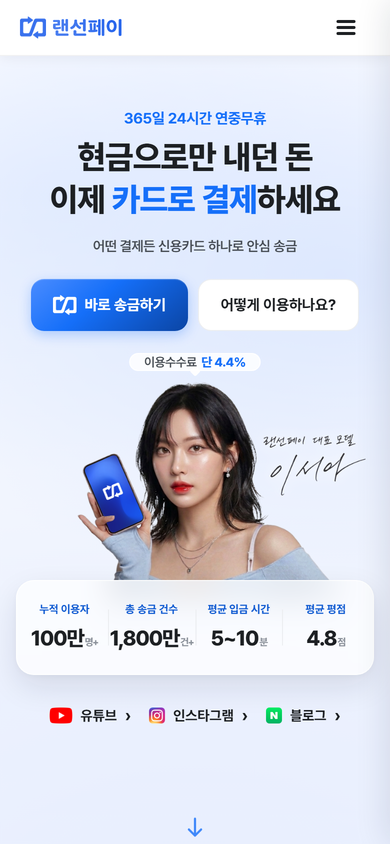
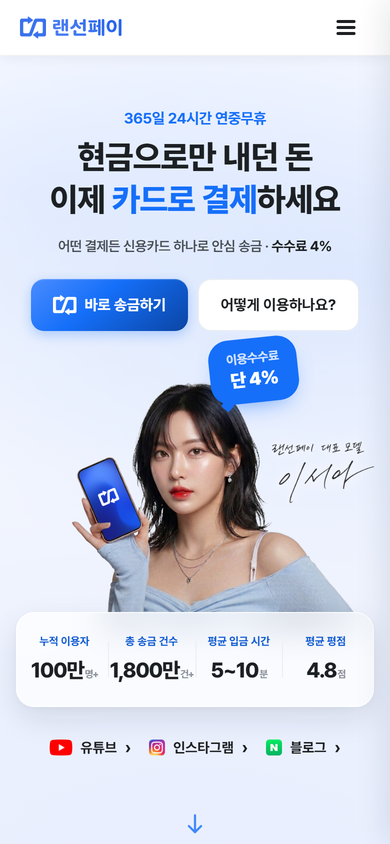
클라이언트 · 리뷰어 피드백 반영
- 수수료 표기 「단 4%」로 통일 (말풍선 두 줄 · 파란 채움 · 머리 옆 대각선), 부제목에 「수수료 4%」 추가
- FAQ 「서류는 무엇이 필요한가요?」 유형별 목록으로 (홈페이지 · 앱)
- 항목 패널: 카드 이미지 → 선택한 항목 아이콘
- 핵심 포인트: 최대 24개월 · 최대 17% · 임대인 동의 없이 강조
- 「쉽고 빠른」 단계 글씨 키움, 사진 띠 문구 「현금이 없어도 랜선페이에서 해결하세요」
- 앱 결제 등록 (필수) 빨간 * 강조, 이용가이드 목업 최신화

Changed region(s): [[0.0308, 0.4005, 0.9538, 0.8934], [0.1538, 0.2773, 0.8615, 0.3081], [0.4923, 0.955, 0.5231, 1.0]]

diff --git a/index.html b/index.html
@@ -921,28 +921,27 @@
     .hmodel{aspect-ratio:1420/1147; max-height:calc(var(--mw) / 1.238 * 1.15);}
     .hmodel img{left:11.34%; width:100%;}
   }
-  /* 말풍선 — 사람 머리 위 한가운데 · 꼬리는 아래 가운데. 사진 칸 위로 삐져나오므로
-     칸의 overflow 대신 clip-path 로 아래 · 좌우만 자르고 위쪽은 열어 둔다 */
+  /* 말풍선 — 머리 오른쪽 위에 대각선으로 · 꼬리는 왼쪽 아래(머리 쪽) · 파란 채움으로 눈에 띄게.
+     사진 칸 위로 삐져나오므로 칸의 overflow 대신 clip-path 로 아래만 자르고 위쪽은 열어 둔다 */
   .hmodel{overflow:visible; clip-path:inset(-90px 0 0 0);}
-  /* PC — 사진이 칸 오른쪽으로 11% 넘치므로 좌우는 자르지 않는다 */
-  @media(min-width:768px){ .hmodel{clip-path:inset(-90px -90px 0 -90px);} }
-  .hbub{position:absolute; z-index:3; left:50%; bottom:calc(100% + 10px); transform:translateX(-50%);
-    padding:8px 14px; border-radius:999px;
-    background:rgba(255,255,255,.82); -webkit-backdrop-filter:blur(10px); backdrop-filter:blur(10px);
-    border:1px solid rgba(255,255,255,.95);
-    color:var(--sub); font-size:12.5px; font-weight:600; letter-spacing:-.3px; white-space:nowrap;
-    box-shadow:0 8px 22px -14px rgba(15,23,42,.35);}
-  .hbub b{color:var(--primary); font-weight:800; margin-left:2px;}
-  /* 꼬리 — 글씨 뒤로 보내고(z-index:-1) 위로 덜 파고들게 작게 · 낮게 */
-  .hbub:after{content:''; position:absolute; z-index:-1; left:50%; bottom:-5px; width:8px; height:8px; margin-left:-4px;
-    border-radius:2px; background:rgba(255,255,255,.95); transform:rotate(45deg);}
+  .hbub{position:absolute; z-index:3; left:55%; bottom:calc(100% - 26px); transform:rotate(-6deg);
+    transform-origin:left bottom;
+    padding:12px 18px 13px; border-radius:20px; text-align:center; line-height:1.2;
+    background:var(--primary); color:rgba(255,255,255,.9);
+    font-size:12.5px; font-weight:700; letter-spacing:-.3px; white-space:nowrap;
+    box-shadow:0 10px 24px -12px rgba(21,111,249,.7);}
+  .hbub small{display:block; font-size:inherit; opacity:.9;}
+  .hbub b{display:block; margin-top:3px; color:#fff; font-weight:900; font-size:18px; letter-spacing:-.5px;}
+  .hbub:after{content:''; position:absolute; z-index:-1; left:10px; bottom:-5px; width:10px; height:10px;
+    border-radius:2px; background:var(--primary); transform:rotate(45deg);}
   /* 머리카락과 안 겹치게 — 말풍선 바로 아래, 얼굴 옆 빈 자리 */
   .hname{position:absolute; z-index:3; right:3%; top:24%; width:108px;
     filter:drop-shadow(0 0 5px rgba(255,255,255,.95)) drop-shadow(0 0 10px rgba(255,255,255,.7));}
   .hname img{display:block; width:100%; height:auto;}
   @media(min-width:768px){
-    .hbub{bottom:calc(100% + 12px); padding:11px 20px; font-size:15.5px;}
-    .hbub:after{bottom:-6px; width:11px; height:11px; margin-left:-5.5px;}
+    .hbub{left:56%; bottom:calc(100% - 22px); padding:14px 24px 16px; font-size:15px; border-radius:24px;}
+    .hbub b{font-size:24px; margin-top:4px;}
+    .hbub:after{left:14px; bottom:-6px; width:12px; height:12px;}
     .hname{right:3%; top:25%; width:160px;}
   }
   /* 글 묶음과 사진 사이 최소 숨통 */
@@ -990,6 +989,8 @@
     .hstats b{font-size:clamp(19px, calc(1.24svh + 11px), 21px);}
   }
 
+  /* 핵심 포인트 — 할부 개월 · 환급률만 크게 */
+  .whygrid .uc h3 em{font-style:normal; color:var(--primary); font-weight:900;}
   /* ===== 이유 카드 — 칸 안에 또 칸 (토스식) =====
      바깥은 흰 카드 · 위쪽 속칸에 파스텔 그라데이션 + 번호 · 화살표 · 제목
      설명은 속칸 아래 흰 자리에. 04(파란 카드)는 그대로 둔다 */
@@ -1111,6 +1112,14 @@
   /* 신용카드가 속칸 자리를 그대로 차지 */
   #itemsec .itin .itr-card{width:100%; max-width:none; min-width:0; margin:0;
     aspect-ratio:1/1.492; align-self:stretch;}
+  /* 선택한 항목의 아이콘을 크게 — 우리 그라데이션 타일 */
+  #itemsec .itr-ic{width:100%; height:100%; border-radius:22px; display:flex; align-items:center; justify-content:center;
+    background:
+      radial-gradient(115% 95% at 10% 6%, color-mix(in srgb, var(--primary) 16%, transparent), transparent 64%),
+      radial-gradient(95% 80% at 95% 92%, color-mix(in srgb, var(--primary) 9%, transparent), transparent 66%), #FAFCFF;
+    border:1px solid color-mix(in srgb, var(--primary) 10%, transparent);}
+  #itemsec .itr-ic iconify-icon{font-size:64px; color:var(--primary); filter:drop-shadow(0 8px 14px rgba(21,111,249,.25));}
+  @media(min-width:1000px){ #itemsec .itr-ic iconify-icon{font-size:76px;} }
   #itemsec .itl h3{margin:0 0 10px; font-size:16px; font-weight:800; letter-spacing:-.3px;
     line-height:1.35; color:var(--ink);}
   @media(min-width:1000px){ #itemsec .itl h3{font-size:20px; margin-bottom:14px;} }
@@ -1235,22 +1244,22 @@
   /* 세로 타임라인 */
   .tline{list-style:none; margin:0; padding:0; width:100%; max-width:560px;}
   @media(min-width:900px){ .tline{max-width:none;} }
-  .tstep{position:relative; display:grid; grid-template-columns:34px 1fr; gap:16px; padding-bottom:30px;}
+  .tstep{position:relative; display:grid; grid-template-columns:38px 1fr; gap:16px; padding-bottom:30px;}
   @media(min-width:900px){ .tstep{padding-bottom:44px;} }
   .tstep:last-child{padding-bottom:0;}
-  .tstep:not(:last-child):before{content:''; position:absolute; left:16px; top:38px; bottom:2px;
+  .tstep:not(:last-child):before{content:''; position:absolute; left:18px; top:42px; bottom:2px;
     width:2px; background:var(--primary-100);}
-  .tno{width:34px; height:34px; border-radius:999px; z-index:1;
+  .tno{width:38px; height:38px; border-radius:999px; z-index:1;
     display:flex; align-items:center; justify-content:center;
     background:#fff; border:1.5px solid var(--primary-100); color:var(--primary-600);
     font-size:14px; font-weight:800; letter-spacing:0;
     box-shadow:0 1px 4px rgba(15,23,42,.06);}
   .tstep.on .tno{background:var(--primary); border-color:var(--primary); color:#fff;
     box-shadow:0 4px 12px rgba(21,111,249,.32);}
-  #howto .tbd h3{margin:5px 0 0; font-size:18px; font-weight:800; letter-spacing:-.3px; line-height:1.4;}
-  @media(min-width:900px){ #howto .tbd h3{font-size:20px;} }
-  .tbd p{margin-top:7px; font-size:15px; line-height:1.75; color:var(--sub); word-break:keep-all;}
-  @media(min-width:900px){ .tbd p{font-size:15.5px;} }
+  #howto .tbd h3{margin:5px 0 0; font-size:19px; font-weight:800; letter-spacing:-.3px; line-height:1.4;}
+  @media(min-width:900px){ #howto .tbd h3{font-size:22px;} }
+  .tbd p{margin-top:8px; font-size:15.5px; line-height:1.75; color:var(--sub); word-break:keep-all;}
+  @media(min-width:900px){ .tbd p{font-size:17px;} }
 
   /* 제목과 단계 사이 — 사람 · 휴대폰 사진 한 줄 */
   .hpic{display:block; width:100%; height:180px; object-fit:cover;
@@ -1511,7 +1520,7 @@
     <div class="wrap hero2">
       <span class="hbadge">365일 24시간 연중무휴</span>
       <h1 class="h-hero">현금으로만 내던 돈<br>이제 <span class="hl">카드로 결제</span>하세요</h1>
-      <p class="hlead">어떤 결제든 신용카드 하나로 안심 송금</p>
+      <p class="hlead">어떤 결제든 신용카드 하나로 안심 송금 · <b>수수료 4%</b></p>
       <div class="hbtns">
         <a class="btn btn-primary" href="app.html" target="_blank" rel="noopener"><img class="btn-logo" src="img/logo3-white.png" alt="">바로 송금하기</a>
         <a class="btn btn-line" href="guide.html">어떻게 이용하나요?</a>
@@ -1520,7 +1529,7 @@
 
     <div class="hmodel">
       <img src="img/people3.png?v=1" alt="랜선페이를 쓰는 모델">
-      <span class="hbub">이용수수료 <b>단 4.4%</b></span>
+      <span class="hbub"><small>이용수수료</small><b>단 4%</b></span>
       <span class="hname"><img src="img/싸인.png?v=1" alt="랜선페이 대표 모델 이서아"></span>
     </div>
 
@@ -1570,7 +1579,7 @@
 
       <div class="itpanel">
         <div class="itin">
-          <div class="itr-card" aria-hidden="true"></div>
+          <div class="itr-ic" aria-hidden="true"><iconify-icon id="itp-ico" icon="mingcute:home-4-fill"></iconify-icon></div>
         </div>
         <div class="itl">
           <h3 id="itp-h"></h3>
@@ -1629,7 +1638,7 @@
   <div class="wrap bandhead">
     <div class="bandclip">
       <div class="bandart">
-        <h2 class="h-band"><span class="soft">불편했던 현금거래</span><br>이제 <span class="hl">랜선페이</span>에게 맡겨보세요</h2>
+        <h2 class="h-band"><span class="soft">현금이 없어도</span><br><span class="hl">랜선페이</span>에서 해결하세요</h2>
       </div>
     </div>
     <div class="banddots" aria-hidden="true"><span class="vdots"></span></div>
@@ -1644,7 +1653,7 @@
           <div class="ucin">
             <span class="no">01</span>
             <span class="uarw" aria-hidden="true"><svg viewBox="0 0 22 22"><path d="M5 17 17 5M8 5h9v9" stroke="currentColor" stroke-width="3.2" fill="none" stroke-linecap="round" stroke-linejoin="round"/></svg></span>
-            <h3>큰 금액도 할부로<br>나눠낼 수 있어요</h3>
+            <h3>큰 금액도 <em>최대 24개월</em><br>할부로 나눠낼 수 있어요</h3>
           </div>
           <p>최대 24개월 할부<br>무이자는 최대 7개월</p>
         </div>
@@ -1652,7 +1661,7 @@
           <div class="ucin">
             <span class="no">02</span>
             <span class="uarw" aria-hidden="true"><svg viewBox="0 0 22 22"><path d="M5 17 17 5M8 5h9v9" stroke="currentColor" stroke-width="3.2" fill="none" stroke-linecap="round" stroke-linejoin="round"/></svg></span>
-            <h3>월세 납부액의<br>최대 17% 돌려받아요</h3>
+            <h3>월세 납부액의<br><em>최대 17%</em> 돌려받아요</h3>
           </div>
           <p>소득공제는 자동 환급<br>세액공제까지 챙겨드려요</p>
         </div>
@@ -1660,7 +1669,7 @@
           <div class="ucin">
             <span class="no">03</span>
             <span class="uarw" aria-hidden="true"><svg viewBox="0 0 22 22"><path d="M5 17 17 5M8 5h9v9" stroke="currentColor" stroke-width="3.2" fill="none" stroke-linecap="round" stroke-linejoin="round"/></svg></span>
-            <h3>임대인 동의 없이<br>계좌로 입금돼요</h3>
+            <h3><em>임대인 동의 없이</em><br>계좌로 입금돼요</h3>
           </div>
           <p>가입 요청 없이<br>보내는 분 이름 그대로 입금</p>
         </div>

diff --git a/faq.html b/faq.html
@@ -30,6 +30,11 @@
   .acc details[open] summary .arw{transform:rotate(180deg);}
   .acc .a{padding:2px 26px 22px 34px; font-size:16px; line-height:1.8; color:var(--sub);}
   .acc .a b{color:var(--ink);}
+  /* 답변 안 목록 — 한 줄에 한 유형, 줄바꿈돼도 들여쓰기 유지 */
+  .acc .a .doclist{list-style:none; margin:12px 0 14px; padding:0;}
+  .acc .a .doclist li{position:relative; padding-left:14px; margin-bottom:8px; line-height:1.7; word-break:keep-all;}
+  .acc .a .doclist li:before{content:'·'; position:absolute; left:2px; color:var(--icon-off);}
+  .acc .a .doclist li b{color:var(--ink);}
   /* 탭 아래 첫 묶음까지 — 공지사항 게시판과 같은 간격 */
   .sec.tight{padding-top:62px;}
   @media(max-width:639px){ .sec.tight{padding-top:30px;} }
@@ -81,7 +86,18 @@
           <details><summary><span class="q">Q.</span><span class="t">세입자 본인만 이용할 수 있나요?</span><iconify-icon class="arw" icon="mingcute:down-line"></iconify-icon></summary>
             <div class="a">본인 명의 계약이 원칙입니다. 다만 가족이 대신 내주는 경우도 가능해요. 계약서와 결제하는 분의 관계를 확인할 수 있는 서류를 함께 올려주세요.</div></details>
           <details><summary><span class="q">Q.</span><span class="t">서류는 무엇이 필요한가요?</span><iconify-icon class="arw" icon="mingcute:down-line"></iconify-icon></summary>
-            <div class="a">항목마다 다르지만 대부분 <b>한 장</b>이면 됩니다. 월세는 임대차 계약서, 관리비는 고지서, 인건비는 근로계약서 + 급여명세서예요. 자세한 목록은 공지사항의 「유형별 필요 서류 한눈에 보기」에서 확인하세요.</div></details>
+            <div class="a">이용하는 결제 종류에 따라 필요한 서류가 다릅니다.
+              <ul class="doclist">
+                <li><b>월세 · 보증금</b> — 임대차 계약서 (중개사 확인이나 확정일자가 없으면 입금내역 2~3회분 추가)</li>
+                <li><b>관리비</b> — 관리비 고지서 · 알림톡 캡처 · 영수증 · 세금계산서 중 하나</li>
+                <li><b>인건비</b> — 근로계약서 + 4대보험 가입자 명부 + 급여 이체내역 (알바 · 프리랜서는 지급명세서)</li>
+                <li><b>학원비 · 학교공과금</b> — 고지서 · 납부 안내 알림톡/메일 캡처 중 하나 (과외비는 강사 자격 증빙 추가)</li>
+                <li><b>인테리어 · 이사 · 청소비</b> — 계약서 · 견적서 · 세금계산서 · 주문내역 캡처 중 하나</li>
+                <li><b>매입대금</b> — 세금계산서 · 거래명세서 · 영수증 · 계약서 중 하나 + 거래처 사업자등록증</li>
+                <li><b>중개수수료</b> — 중개보수가 적힌 계약서 또는 영수증</li>
+                <li><b>기타</b> — 금액과 받는 계좌가 확인되는 계약서 · 청구서 · 영수증</li>
+              </ul>
+              자세한 목록은 공지사항 → 「유형별 필요 서류 한눈에 보기」에서 확인하세요.</div></details>
         </div>
       </div>
 
@@ -99,7 +115,7 @@
         <h2 class="fgt">이용료 · 비용</h2>
         <div class="acc">
           <details><summary><span class="q">Q.</span><span class="t">수수료는 얼마인가요?</span><iconify-icon class="arw" icon="mingcute:down-line"></iconify-icon></summary>
-            <div class="a">송금 금액의 <b>4.4%</b> (부가세 포함)입니다. 결제 전에 정확한 금액을 화면에서 미리 보여드려요. 숨은 비용은 없습니다.</div></details>
+            <div class="a">송금 금액의 <b>4%</b>입니다. 결제 전에 정확한 금액을 화면에서 미리 보여드려요. 숨은 비용은 없습니다.</div></details>
           <details><summary><span class="q">Q.</span><span class="t">월세 세액공제는 어떻게 받나요?</span><iconify-icon class="arw" icon="mingcute:down-line"></iconify-icon></summary>
             <div class="a">카드로 낸 월세도 <b>현금영수증과 같이</b> 세액공제 대상입니다. 연말정산 때 쓸 증빙은 화면에서 바로 내려받을 수 있어요. 소득 구간에 따라 최대 17%까지 환급됩니다.</div></details>
         </div>

diff --git a/화면/질문.html b/화면/질문.html
@@ -56,6 +56,11 @@
     font-size:11.5px; font-weight:700; color:var(--placeholder); background:none; border:none; cursor:pointer;}
   .atab iconify-icon{font-size:24px;}
   .atab .on{color:var(--primary);}
+  /* 답변 안 목록 — 한 줄에 한 유형, 줄바꿈돼도 들여쓰기 유지 */
+  .acc .a .doclist{list-style:none; margin:12px 0 14px; padding:0;}
+  .acc .a .doclist li{position:relative; padding-left:14px; margin-bottom:8px; line-height:1.7; word-break:keep-all;}
+  .acc .a .doclist li:before{content:'·'; position:absolute; left:2px; color:var(--icon-off);}
+  .acc .a .doclist li b{color:var(--ink);}
 </style>
 </head>
 <body>
@@ -73,7 +78,18 @@
         <details data-cat="가입"><summary><span class="q">Q.</span><span class="t">세입자 본인만 이용할 수 있나요?</span><iconify-icon class="arw" icon="mingcute:down-line"></iconify-icon></summary>
           <div class="a">본인 명의 계약이 원칙입니다. 다만 가족이 대신 내주는 경우도 가능해요. 계약서와 결제하는 분의 관계를 확인할 수 있는 서류를 함께 올려주세요.</div></details>
         <details data-cat="가입"><summary><span class="q">Q.</span><span class="t">서류는 무엇이 필요한가요?</span><iconify-icon class="arw" icon="mingcute:down-line"></iconify-icon></summary>
-          <div class="a">항목마다 다르지만 대부분 <b>한 장</b>이면 됩니다. 월세는 임대차 계약서 · 관리비는 고지서 · 인건비는 근로계약서 + 급여명세서예요. 자세한 목록은 공지사항의 「유형별 필요 서류 한눈에 보기」에서 확인하세요.</div></details>
+          <div class="a">이용하는 결제 종류에 따라 필요한 서류가 다릅니다.
+              <ul class="doclist">
+                <li><b>월세 · 보증금</b> — 임대차 계약서 (중개사 확인이나 확정일자가 없으면 입금내역 2~3회분 추가)</li>
+                <li><b>관리비</b> — 관리비 고지서 · 알림톡 캡처 · 영수증 · 세금계산서 중 하나</li>
+                <li><b>인건비</b> — 근로계약서 + 4대보험 가입자 명부 + 급여 이체내역 (알바 · 프리랜서는 지급명세서)</li>
+                <li><b>학원비 · 학교공과금</b> — 고지서 · 납부 안내 알림톡/메일 캡처 중 하나 (과외비는 강사 자격 증빙 추가)</li>
+                <li><b>인테리어 · 이사 · 청소비</b> — 계약서 · 견적서 · 세금계산서 · 주문내역 캡처 중 하나</li>
+                <li><b>매입대금</b> — 세금계산서 · 거래명세서 · 영수증 · 계약서 중 하나 + 거래처 사업자등록증</li>
+                <li><b>중개수수료</b> — 중개보수가 적힌 계약서 또는 영수증</li>
+                <li><b>기타</b> — 금액과 받는 계좌가 확인되는 계약서 · 청구서 · 영수증</li>
+              </ul>
+              자세한 목록은 공지사항 → 「유형별 필요 서류 한눈에 보기」에서 확인하세요.</div></details>
       </div>
       <div class="gh">결제하기</div>
       <div class="acc">
@@ -85,7 +101,7 @@
       <div class="gh">이용료 · 비용</div>
       <div class="acc">
         <details data-cat="비용"><summary><span class="q">Q.</span><span class="t">수수료는 얼마인가요?</span><iconify-icon class="arw" icon="mingcute:down-line"></iconify-icon></summary>
-          <div class="a">송금 금액의 <b>4.4%</b> (부가세 포함)입니다. 결제 전에 정확한 금액을 화면에서 미리 보여드려요. 숨은 비용은 없습니다.</div></details>
+          <div class="a">송금 금액의 <b>4%</b>입니다. 결제 전에 정확한 금액을 화면에서 미리 보여드려요. 숨은 비용은 없습니다.</div></details>
         <details data-cat="비용"><summary><span class="q">Q.</span><span class="t">월세 세액공제는 어떻게 받나요?</span><iconify-icon class="arw" icon="mingcute:down-line"></iconify-icon></summary>
           <div class="a">카드로 낸 월세도 <b>현금영수증과 같이</b> 세액공제 대상입니다. 연말정산 때 쓸 증빙은 화면에서 바로 내려받을 수 있어요. 소득 구간에 따라 최대 17%까지 환급됩니다.</div></details>
       </div>

diff --git a/화면/등록2_정보.html b/화면/등록2_정보.html
@@ -27,7 +27,8 @@
   .q{font-size:21px; font-weight:800; letter-spacing:-.3px; margin:6px 0 18px;}
   .fld{margin-bottom:16px;}
   .fld > label{display:block; font-size:13.5px; font-weight:700; margin-bottom:7px;}
-  .fld > label small{font-weight:500; color:var(--placeholder);}
+  .fld > label small{font-weight:700; color:#E5484D;}
+  .fld > label small:before{content:'* ';}
   .in, select.in{width:100%; height:50px; border:1px solid var(--line); border-radius:8px;
     padding:0 14px; font:inherit; font-size:15.5px; background:#fff; color:var(--ink); outline:none;}
   .in:focus{border-color:var(--primary);}
@@ -95,9 +96,9 @@
     </div>
 
     <div class="est" id="예상" style="display:none">
-      <div class="er"><span>예상 수수료 (4.4%)</span><b id="수수료">0원</b></div>
+      <div class="er"><span>예상 수수료</span><b id="수수료">0원</b></div>
       <div class="er"><span>예상 결제 총액</span><b id="총액">0원</b></div>
-      <div class="es">수수료는 부가세가 포함된 금액이며 결제 시점에 확정됩니다.</div>
+      <div class="es">수수료 4%에 부가세가 더해진 금액이며 결제 시점에 확정됩니다.</div>
     </div>
 
     <div class="hint err" id="오류" style="display:none"></div>

diff --git a/약관.html b/약관.html
@@ -65,7 +65,7 @@
 <h3>제5조 (이용계약의 성립)</h3>
 <p>이용계약은 이용자가 약관에 동의하고 회사가 정한 절차에 따라 가입을 신청하면 회사가 이를 승낙함으로써 성립합니다. 회사는 실명이 아니거나 타인 명의를 도용한 신청 등을 거절할 수 있습니다.</p>
 <h3>제6조 (수수료)</h3>
-<p>서비스 수수료는 송금 금액의 4.4%(부가세 포함)입니다. 수수료는 결제 전에 화면에 표시되며 결제 시점에 확정됩니다.</p>
+<p>서비스 수수료는 송금 금액의 4%(부가세 별도)입니다. 수수료는 결제 전에 화면에 표시되며 결제 시점에 확정됩니다.</p>
 <h3>제7조 (결제와 송금)</h3>
 <p>송금은 서류 검토와 승인이 끝난 뒤 진행됩니다. 즉시 송금은 승인 후 바로 진행되고 예약 송금은 이용자가 정한 날짜에 진행됩니다. 회사는 여신전문금융업법 등 관련 법에 어긋나는 거래를 중단할 수 있습니다.</p>
 <h3>제8조 (취소와 환불)</h3>

diff --git a/화면/약관.html b/화면/약관.html
@@ -61,7 +61,7 @@
 <h3>제5조 (이용계약의 성립)</h3>
 <p>이용계약은 이용자가 약관에 동의하고 회사가 정한 절차에 따라 가입을 신청하면 회사가 이를 승낙함으로써 성립합니다. 회사는 실명이 아니거나 타인 명의를 도용한 신청 등을 거절할 수 있습니다.</p>
 <h3>제6조 (수수료)</h3>
-<p>서비스 수수료는 송금 금액의 4.4%(부가세 포함)입니다. 수수료는 결제 전에 화면에 표시되며 결제 시점에 확정됩니다.</p>
+<p>서비스 수수료는 송금 금액의 4%(부가세 별도)입니다. 수수료는 결제 전에 화면에 표시되며 결제 시점에 확정됩니다.</p>
 <h3>제7조 (결제와 송금)</h3>
 <p>송금은 서류 검토와 승인이 끝난 뒤 진행됩니다. 즉시 송금은 승인 후 바로 진행되고 예약 송금은 이용자가 정한 날짜에 진행됩니다. 회사는 여신전문금융업법 등 관련 법에 어긋나는 거래를 중단할 수 있습니다.</p>
 <h3>제8조 (취소와 환불)</h3>

diff --git a/화면/14_완료.html b/화면/14_완료.html
@@ -107,7 +107,7 @@ body{display:block !important; padding:0 !important; background:#EDF0F4 !importa
       <div class="rrow"><span class="l">송금 시점</span><span class="v" id="r시점">즉시 송금</span></div>
       <div class="rdiv"></div>
       <div class="rrow"><span class="l">신청 금액</span><span class="v" id="r금액">700,000원</span></div>
-      <div class="rrow"><span class="l">수수료 (4.4%)</span><span class="v" id="r수수료">30,800원</span></div>
+      <div class="rrow"><span class="l">수수료</span><span class="v" id="r수수료">30,800원</span></div>
       <div class="rrow big"><span class="l">결제 예정 금액</span><span class="v" id="r총액">730,800원</span></div>
     </div>
 

diff --git a/화면/결제관리.html b/화면/결제관리.html
@@ -89,7 +89,8 @@
   /* 정기결제 등록 시트 */
   .fld{margin-bottom:14px;}
   .fld > label{display:block; font-size:13px; font-weight:700; margin-bottom:6px;}
-  .fld > label small{font-weight:500; color:var(--placeholder);}
+  .fld > label small{font-weight:700; color:#E5484D;}
+  .fld > label small:before{content:'* ';}
   .in, select.in{width:100%; height:48px; border:1px solid var(--line); border-radius:8px;
     padding:0 13px; font:inherit; font-size:14.5px; background:#fff; color:var(--ink); outline:none;}
   .in:focus{border-color:var(--primary);}

diff --git a/notice.html b/notice.html
@@ -146,7 +146,7 @@
               <li>카드마다 <b>할부 개월을 따로</b> 정할 수 있어요</li>
             </ul>
 
-            수수료는 똑같이 4.4%이고 카드사 무이자 행사도 그대로 적용됩니다.</div>
+            수수료는 똑같이 4%이고 카드사 무이자 행사도 그대로 적용됩니다.</div>
           <div class="nback"><a class="btn btn-line" href="#">목록으로</a></div>
         </article>
         <article class="npost" id="n8">

diff --git a/화면/공지.html b/화면/공지.html
@@ -154,7 +154,7 @@
               <li>카드마다 <b>할부 개월을 따로</b> 정할 수 있어요</li>
             </ul>
 
-            수수료는 똑같이 4.4%이고 카드사 무이자 행사도 그대로 적용됩니다.</div>
+            수수료는 똑같이 4%이고 카드사 무이자 행사도 그대로 적용됩니다.</div>
           <div class="nback"><a class="btn btn-line" href="#">목록으로</a></div>
         </article>
         <article class="npost" id="n8">
